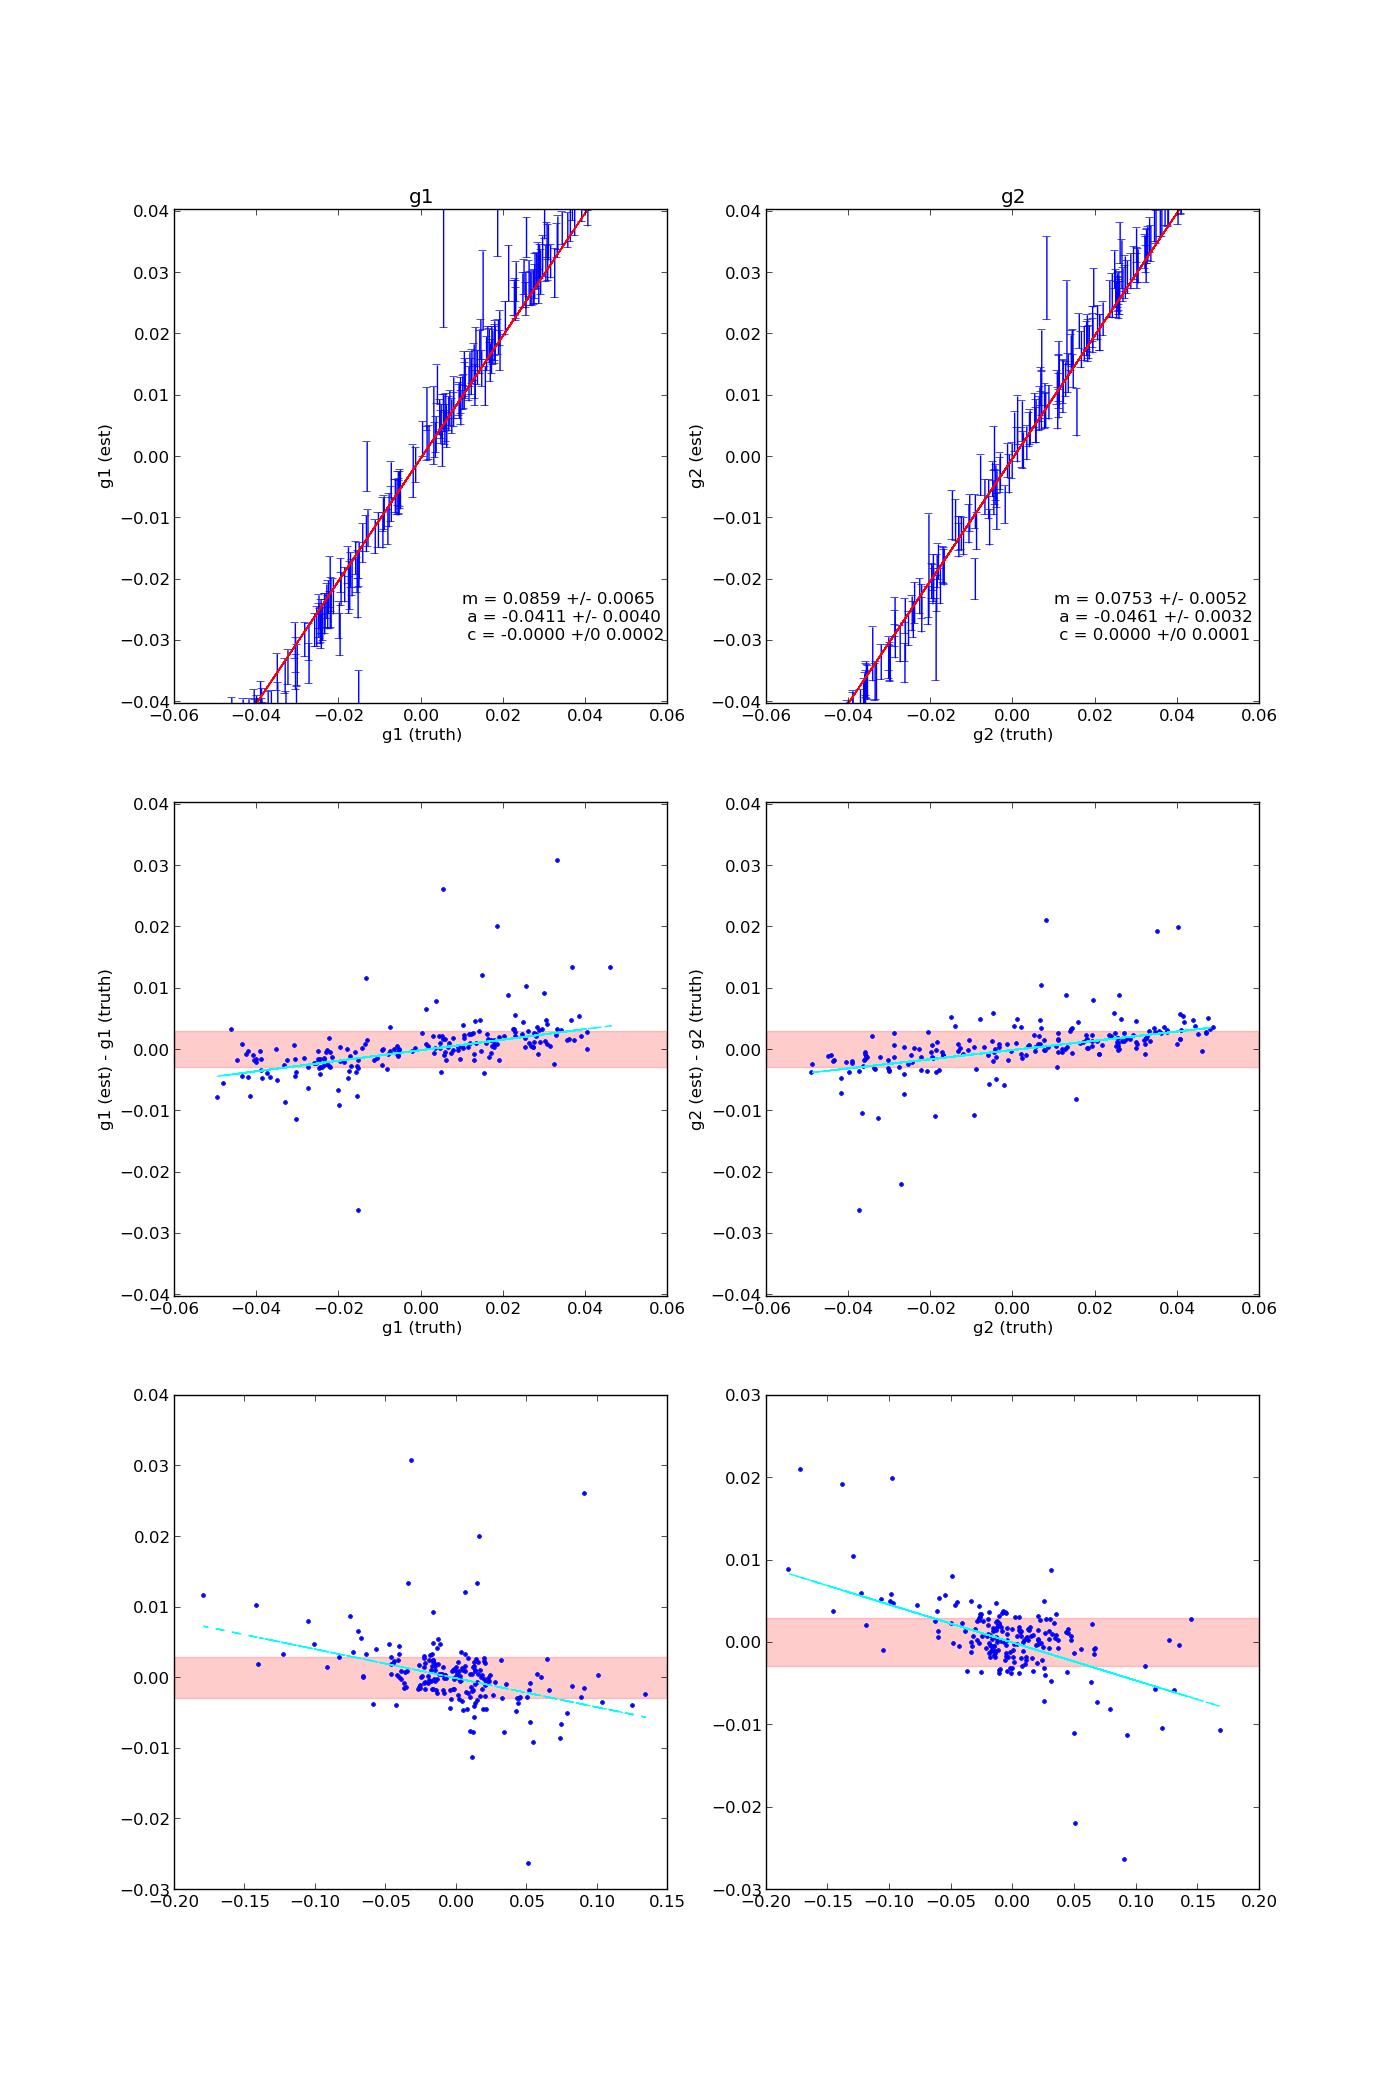
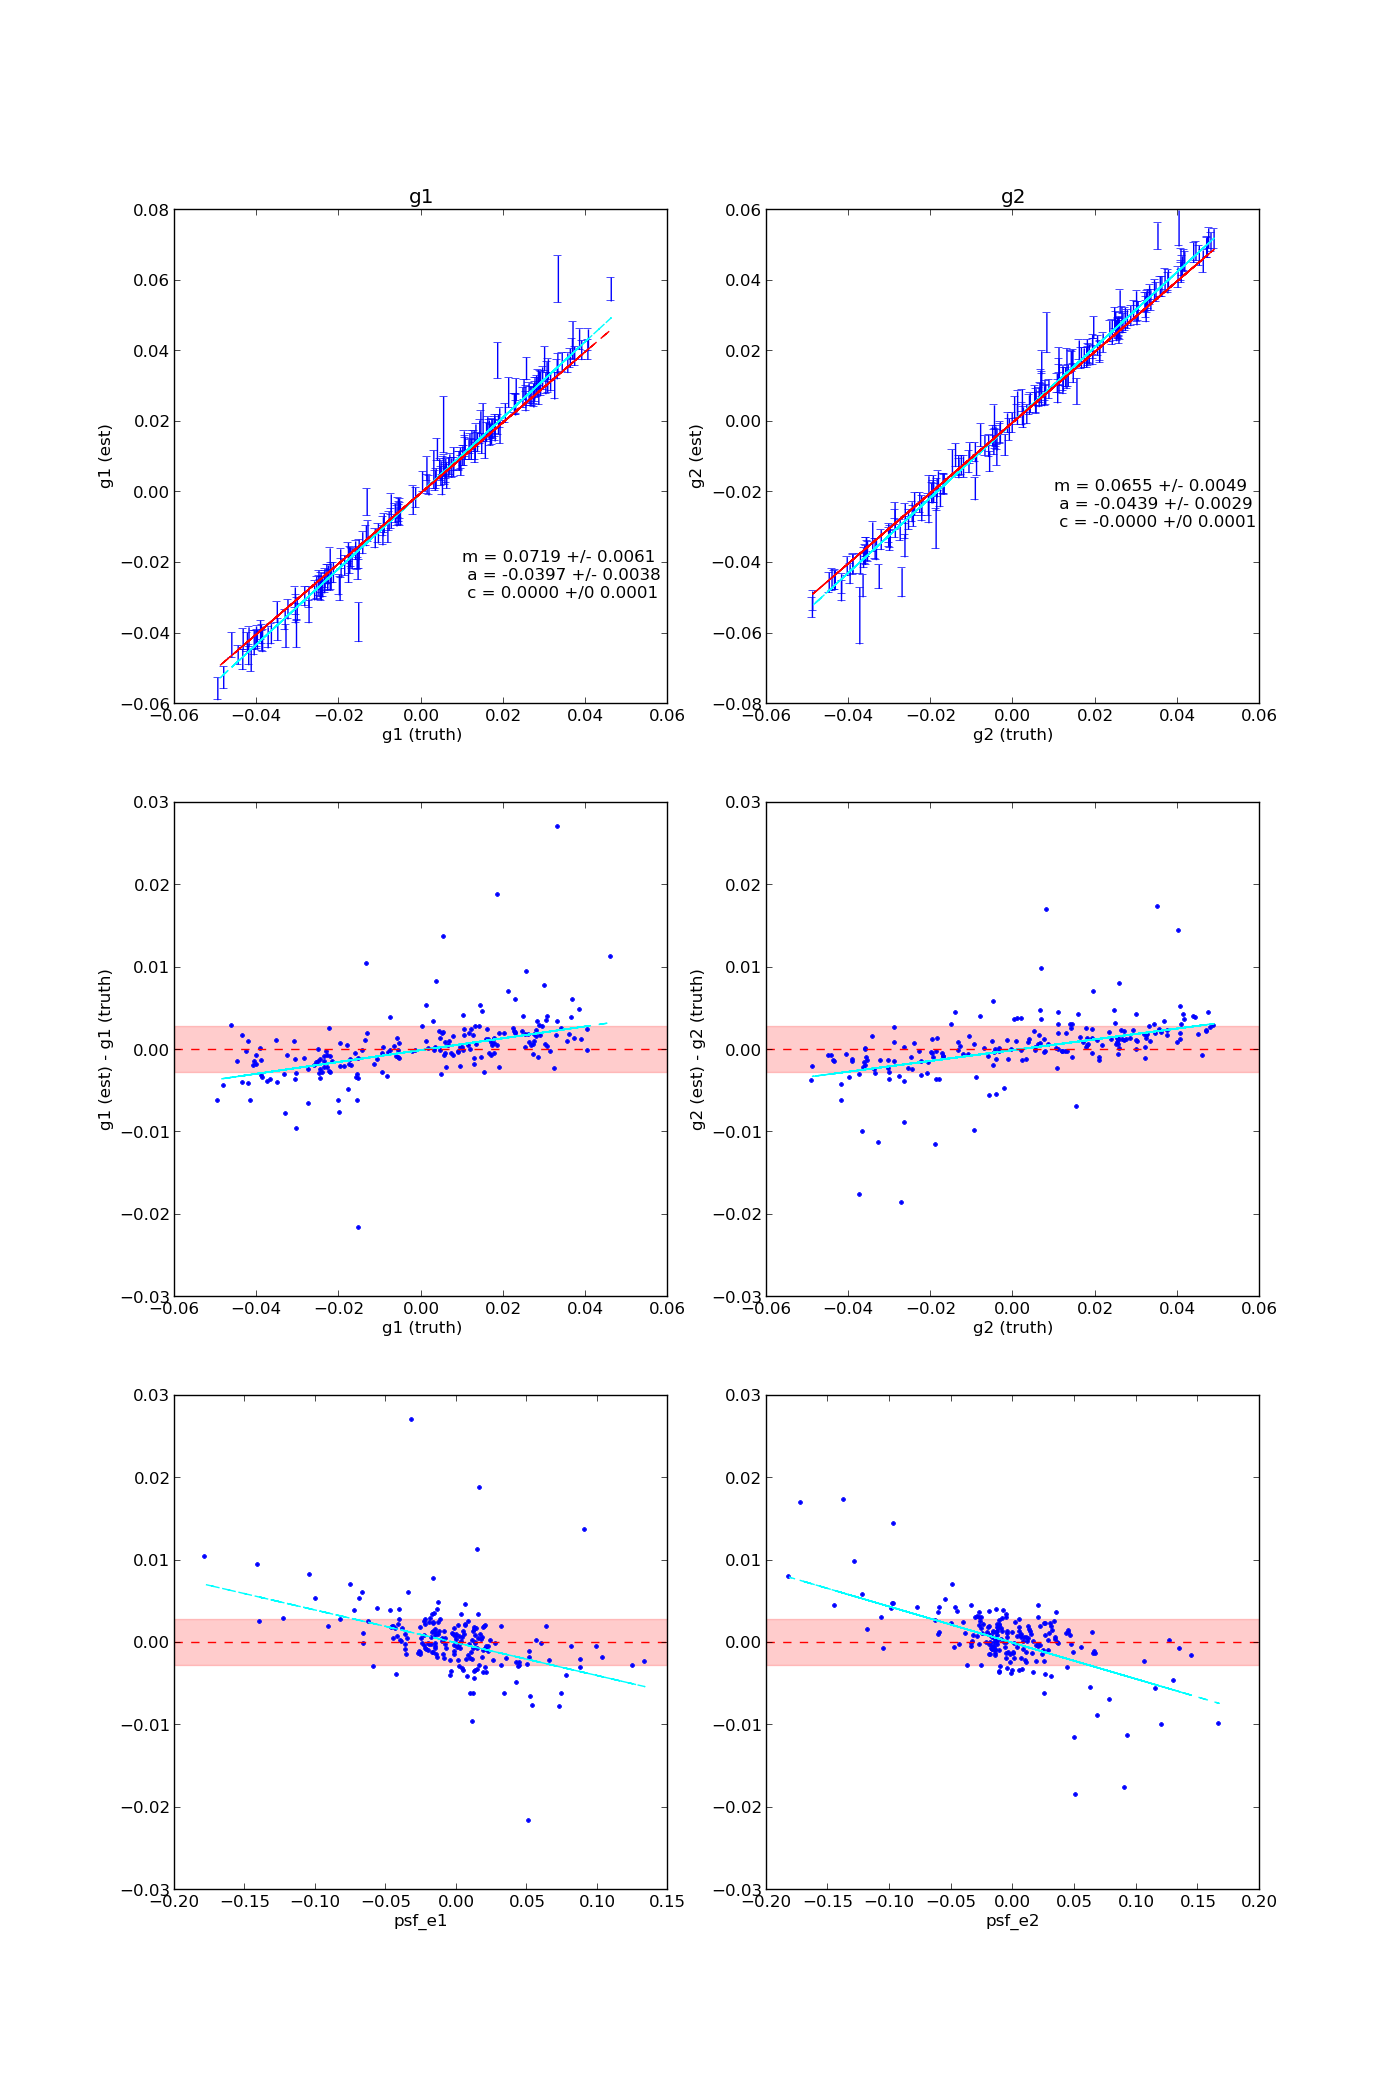
Wrapper script for esheldon catalogs at slac

diff --git a/Scripts/shear_ensemble_est_sheldon.py b/Scripts/shear_ensemble_est_sheldon.py
@@ -9,121 +9,42 @@ from astropy.io import fits
 import re
 import galsim
 
-def get_object_size(entry):
 
     
-    psf_size = 0.2
-    psfObj = galsim.Gaussian(fwhm=psf_size)
-    image = galsim.Image(51,51,scale=0.25)
+def getAllCatalogs( path = '/nfs/slac/des/fs1/g/sims/esheldon/lensing/great3reredux/', subsample = True, nrows = 100000 ):
 
-    if entry['bulge_flux'] > 0.:
-        bulge = galsim.Sersic(entry['bulge_n'], flux = entry['bulge_flux'], half_light_radius = entry['bulge_hlr'])
-        bulge.applyShear(q = entry['bulge_q'], beta =entry['bulge_beta_radians']*galsim.radians)
-        bulgeConv = galsim.Convolve([bulge,psfObj])
-        bulgeConv.drawImage(image=image,add_to_image=True)
 
-    if entry['disk_flux'] > 0.:
-        disk = galsim.Exponential(flux = entry['disk_flux'],half_light_radius = entry['disk_hlr'])
-        disk.applyShear(q=entry['disk_q'],beta=entry['disk_beta_radians']*galsim.radians)
-        diskConv = galsim.Convolve([disk,psfObj])
-        diskConv.drawImage(image=image, add_to_image = True)
-    
-    xx,yy = np.meshgrid(np.arange(51)-25, np.arange(51)-25)
-    sigma = np.sqrt( np.sum( image.array * (xx**2 + yy **2) ) / np.sum(image.array)  )
-    if not np.isfinite(sigma):
-        stop
-    return sigma
-
-    
-def getAllCatalogs( path = '../Great3/', mc_type = None, sn_cut = None ):
-
-    globalPath = path
-    if mc_type=='regauss':
-        path = path+'Outputs-Regauss-BugFix/output_catalog*.fits'
-        truthFile = 'cgc-truthtable.txt'
-    elif mc_type=='regauss-sym':
-        path = path+'Outputs-Regauss-SymNoise/cgc_metacal_symm*.fits'
-        truthFile = 'cgc-truthtable.txt'
-    elif mc_type=='ksb':
-        path = path+'Outputs-KSB/output_catalog*.fits'
-        truthFile = 'cgc-truthtable.txt'
-    elif mc_type=='none-regauss':
-        path = path+'Outputs-CGN-Regauss/cgc_metacal_moments*.fits'
-        truthFile = 'cgc-truthtable.txt'
-    elif mc_type=='moments':
-        path = path+'Outputs-Moments/cgc_metacal_moments*.fits'
-        truthFile = 'cgc-truthtable.txt'
-    elif mc_type=='noaber-regauss-sym':
-        path = path+'Outputs-Regauss-NoAber-SymNoise/cgc_noaber_metacal_symm*.fits'
-        truthFile = 'cgc-noaber-truthtable.txt'
-    elif mc_type=='noaber-regauss':
-        path = path+'Outputs-Regauss-NoAber-Bugfix/cgc_noaber_metacalfix_regauss*.fits'
-        truthFile = 'cgc-noaber-truthtable.txt'
-    elif mc_type=='cgc-noaber-precise':
-        path = path+'Outputs-Regauss-NoAber-HighPrec/cgc_noaber_precise3_metacal*.fits'
-        truthFile = 'cgc-noaber-truthtable.txt'
-    elif mc_type == 'rgc-regauss':
-        path = path+'Outputs-Real-Regauss-BugFix/output_catalog*.fits'
-        truthFile = 'rgc-truthtable.txt'
-    elif mc_type == 'rgc-noaber-regauss':
-        path = path+'Outputs-Real-NoAber-Regauss-BugFix/rgc_noaber_metacalfix_regauss*.fits'
-        truthFile = 'rgc-noaber-truthtable.txt'
-    elif mc_type == 'rgc-ksb':
-        path= path+'Outputs-Real-KSB/output_catalog*.fits'
-        truthFile = 'rgc-truthtable.txt'
-    elif mc_type=='rgc-fixedaber-regauss':
-        path = path+'Outputs-Real-Regauss-FixedAber-BugFix/rgc_fixedaber_metacalfix_regauss*.fits'
-        truthFile = 'rgc-fixedaber-truthtable.txt'
-
-    else:
-        raise RuntimeError('Unrecognized mc_type: %s'%mc_type)
-
-    if sn_cut is not None:
-        truthPath = globalPath+'Truth/'
-        if mc_type == 'rgc-noaber-regauss':
-            truthPath = truthPath+'rgc-noaber/'
-        if (mc_type == 'noaber-regauss') or (mc_type == 'cgc-noaber-precise'):
-            truthPath = truthPath+'cgc-noaber/'
-        if (mc_type == 'regauss') or (mc_type == 'regauss-bugfix'):
-            truthPath = truthPath+'cgc/'
-            
-    catFiles = glob.glob(path)
-    if len(catFiles) == 0:
-        raise RuntimeError("No catalogs found with path %s!"%path)
+    fields = ["mcal-v05s02/collated/mcal-v05s02.fits",\
+              "mcal-v06s01/collated/mcal-v06s01.fits",\
+              "mcal-v07s01/collated/mcal-v07s01.fits",\
+              "mcal-v08s01/collated/mcal-v08s01.fits"]
     catalogs = []
-    #alltruth = []
-    for thisFile in catFiles:
-
-            # Here I was investigating the possibility that I'd
-            # regressed the galaxy shapes against the wrong psf
-            # ellipticity. I've disabled this for the time being.
-        this_catalog = fits.getdata(thisFile)
-        keep  =   (this_catalog['g1'] != -10) & (this_catalog['g2'] != -10) & (this_catalog['weight'] > 0)
-        this_catalog = this_catalog[keep]
-        if mc_type=='moments':
-            this_catalog['a1'] = this_catalog['a1']/2.
-            this_catalog['a2'] = this_catalog['a2']/2.
+    cat_dtype =  np.dtype([('g1','>f8'),('R1','>f8'),('a1','>f8'),('c1','>f8'), ('psf_e1','>f8'),('g2','>f8'),('R2','>f8'),('a2','>f8'),('c2','>f8'), ('psf_e2','>f8'),('weight','>f8')])
+    for thisfield in fields:
+        if subsample is True:
+            data = fitsio.read(filename, rows=[np.arange(nrows)], \
+                               columns=['exp_mcal_g','exp_mcal_R', 'exp_mcal_Rpsf','exp_mcal_gpsf','exp_mcal_c','exp_flags'], ext=1)
+            keep = data['exp_flags'] == 0
             
         else:
-            this_catalog = fits.getdata(thisFile)
-            keep  =   (this_catalog['g1'] != -10) & (this_catalog['g2'] != -10) & (this_catalog['weight'] > 0)
-            this_catalog = this_catalog[keep]
-        if sn_cut is not None:
-            # Parse thisFile to figure out where the truth catalog
-            # lives.
-            pattern = re.compile("-(\d*).fits")
-            thisField = pattern.findall(thisFile)[0]
-            thisTruthFile = truthPath + 'subfield_catalog-'+thisField+'.fits'
-            truthCat = fits.getdata(thisTruthFile)
-            keep  =   (truthCat['gal_sn'] > (sn_cut) )
-            use = np.in1d(this_catalog['id'],truthCat[keep]['id'])
-            this_catalog = this_catalog[use]
-            truthCat = truthCat[use]
+            data = fitsio.read(filename, \
+                               columns=['exp_mcal_g','exp_mcal_R', 'exp_mcal_Rpsf','exp_mcal_gpsf','exp_mcal_c','exp_flags'], ext=1)
+            keep = data['exp_flags'] == 0
+        this_catalog = np.empty(np.sum(keep), dtype = cat_dtype)
+        this_catalog['g1'] = data[keep]['exp_mcal_g'][:,0]
+        this_catalog['g2'] = data[keep]['exp_mcal_g'][:,1]
+        this_catalog['R1'] = data[keep]['exp_mcal_R'][:,0,0]
+        this_catalog['R2'] = data[keep]['exp_mcal_R'][:,1,1]
+        this_catalog['a1'] = data[keep]['exp_mcal_Rpsf'][:,0]
+        this_catalog['a2'] = data[keep]['exp_mcal_Rpsf'][:,1]
+        this_catalog['psf_e1'] = data[keep]['exp_mcal_gpsf'][:,0]
+        this_catalog['psf_e2'] = data[keep]['exp_mcal_gpsf'][:,0]
+        this_catalog['c1'] = data[keep]['exp_mcal_c'][:,0]
+        this_catalog['c2'] = data[keep]['exp_mcal_c'][:,1]
+        this_catalog['weight'] = np.zeros(np.sum(keep))+1.
+        catalogs.append(data[keep])
+    return catalogs
 
-        catalogs.append(this_catalog)
-    #cat = np.hstack(catalogs)
-    #truth = np.hstack(alltruth)
-    #stop
     return catalogs, truthFile
 
 
@@ -731,13 +652,13 @@ def main(argv):
     import argparse
 
     description = """Analyze MetaCalibration outputs from Great3 and Great3++ simulations."""
-    mc_choices =['regauss', 'regauss-sym', 'ksb', 'none-regauss', 'moments', 'noaber-regauss-sym','noaber-regauss','rgc-regauss','rgc-noaber-regauss','rgc-fixedaber-regauss', 'rgc-ksb','cgc-noaber-precise']
+    mc_choices =['g3redux']
     # Note: The above line needs to be consistent with the choices in getAllCatalogs.
 
     parser = argparse.ArgumentParser(description=description)
     parser.add_argument("--path", dest="path", type=str, default="../Great3/",
                         help="path to MetaCalibration output catalogs")
-    parser.add_argument("-mc","--mc_type", dest="mc_type", type=str, default="regauss",
+    parser.add_argument("-mc","--mc_type", dest="mc_type", type=str, default="g3redux",
                         choices = mc_choices, help="metcalibration catalog type to use")
     parser.add_argument("-n", "--nbins", dest = "nbins", type = int, default= 20,
                         help = "number of bins to use in histogram estimator.")
@@ -763,14 +684,13 @@ def main(argv):
         outfile = args.outfile
         print 'Getting catalogs from path %s and mc_type %s'%(path, mc_type)
         print 'Using %i bins for inference'% (nbins)
-        catalogs, truthfile = getAllCatalogs(path=path, mc_type=mc_type,sn_cut = sn_cut)
+        catalogs = getAllCatalogs(path=path, mc_type=mc_type,sn_cut = sn_cut)
         print 'Got %d catalogs, doing inference'%len(catalogs)
         field_id, g1raw, g2raw, g1opt, g2opt, g1var, g2var, psf_e1, psf_e2, e1_logL, e2_logL = \
             doInference(catalogs=catalogs, nbins=nbins, mean=False)
         field_str = makeFieldStructure(field_id=field_id, g1raw = g1raw, g2raw = g2raw, g1opt = g1opt, g2opt = g2opt,
                                     g1var = g1var, g2var = g2var, psf_e1 = psf_e1, psf_e2 = psf_e2,
                                     e1_logL = e1_logL, e2_logL = e2_logL)
-        calculate_likelihood_cut(fieldstr = field_str, mc= mc_type)
         print 'Writing field_id, g1raw, g2raw, g1opt, g2opt, g1var, g2var, psf_e1, psf_qe2, e1_logL, e2_logL to file %s'%outfile
         out_data = np.column_stack((field_id, g1raw, g2raw, g1opt, g2opt, g1var, g2var, psf_e1, psf_e2, e1_logL, e2_logL))
         np.savetxt(outfile, out_data, fmt='%d %10.4e %10.4e %10.4e %10.4e %10.4e %10.4e %10.4e %10.4e %10.4e %10.4e')
